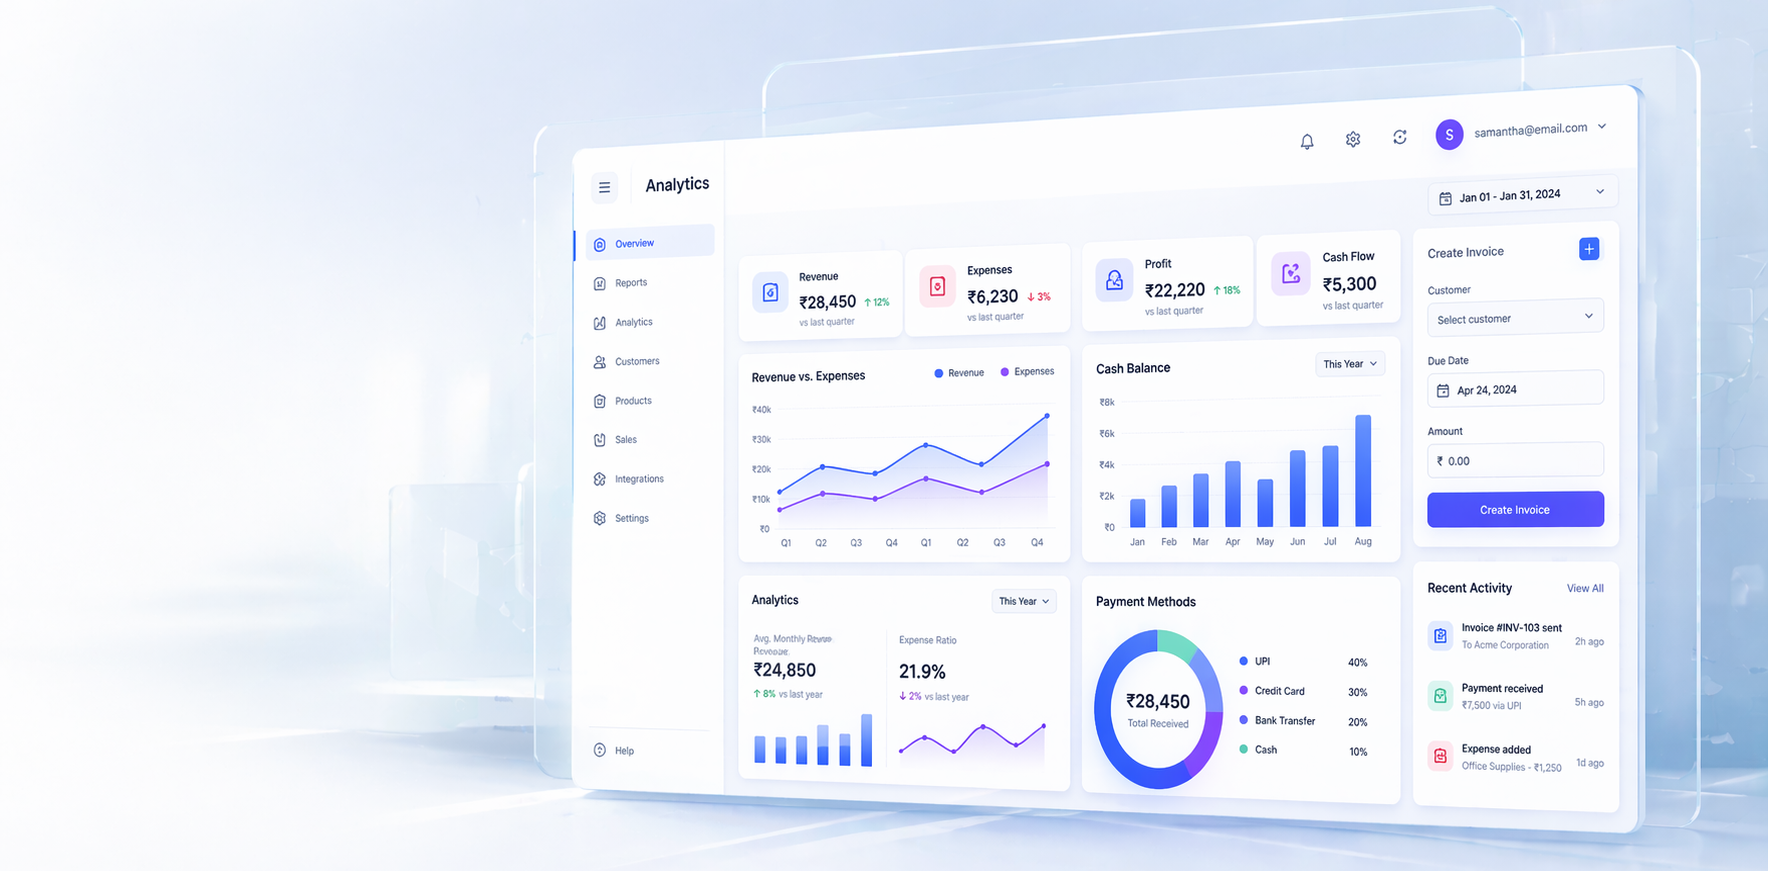
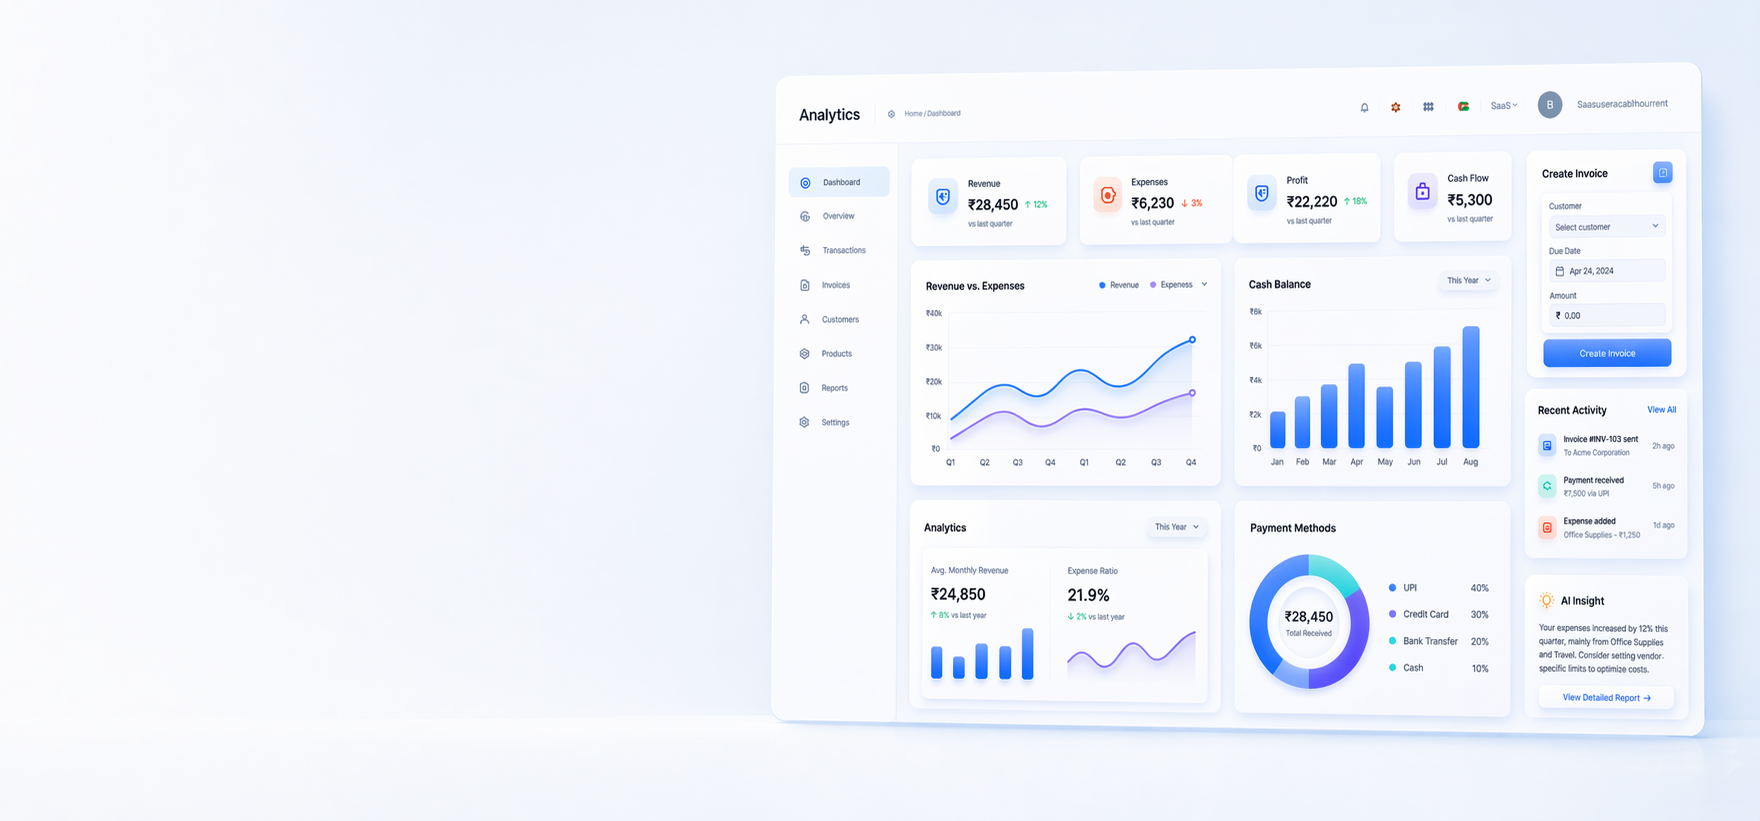
Dashboard image updated

diff --git a/src/components/CTAFAQSection.tsx b/src/components/CTAFAQSection.tsx
@@ -34,7 +34,7 @@ export default function CTAFAQSection() {
   return (
     <section className="py-20 bg-gradient-to-br from-blue-50 to-purple-50">
       <div className="max-w-7xl mx-auto px-4 sm:px-6 lg:px-8">
-        {/* CTA Section */}
+        {/* CTA Secion */}
         <div className="text-center mb-16">
           <h2 className="text-4xl sm:text-5xl font-semibold text-gray-900 mb-6">
             Ready to Transform Your Business?
@@ -42,7 +42,7 @@ export default function CTAFAQSection() {
           <p className="text-xl text-gray-600 max-w-3xl mx-auto mb-8">
             Let's discuss how our digital solutions can help you achieve your business goals and stay ahead of the competition.
           </p>
-          
+
           <div className="flex flex-col sm:flex-row gap-4 justify-center">
             <button className="bg-blue-600 text-white px-8 py-4 rounded-lg font-semibold hover:bg-blue-700 transition-colors flex items-center justify-center">
               <MessageCircle className="w-5 h-5 mr-2" />
@@ -64,11 +64,11 @@ export default function CTAFAQSection() {
             <p className="text-lg text-gray-600 mb-8">
               Have questions about our services? Find answers to common queries below.
             </p>
-            
+
             <div className="space-y-4">
               {faqs.map((faq, index) => (
-                <div 
-                  key={index} 
+                <div
+                  key={index}
                   className="bg-white rounded-xl border border-gray-200 overflow-hidden"
                 >
                   <button
@@ -99,7 +99,7 @@ export default function CTAFAQSection() {
             <p className="text-gray-600 mb-8">
               Have a specific question or project in mind? Reach out to us and we'll get back to you within 24 hours.
             </p>
-            
+
             <form className="space-y-6">
               <div>
                 <label className="block text-sm font-medium text-gray-700 mb-2">
@@ -111,7 +111,7 @@ export default function CTAFAQSection() {
                   placeholder="John Doe"
                 />
               </div>
-              
+
               <div>
                 <label className="block text-sm font-medium text-gray-700 mb-2">
                   Email Address
@@ -122,7 +122,7 @@ export default function CTAFAQSection() {
                   placeholder="john@example.com"
                 />
               </div>
-              
+
               <div>
                 <label className="block text-sm font-medium text-gray-700 mb-2">
                   Message
@@ -133,7 +133,7 @@ export default function CTAFAQSection() {
                   placeholder="Tell us about your project..."
                 />
               </div>
-              
+
               <button
                 type="submit"
                 className="w-full bg-blue-600 text-white px-6 py-3 rounded-lg font-semibold hover:bg-blue-700 transition-colors flex items-center justify-center"
@@ -142,7 +142,7 @@ export default function CTAFAQSection() {
                 Send Message
               </button>
             </form>
-            
+
             <div className="mt-8 pt-8 border-t border-gray-200">
               <div className="flex items-center space-x-4 text-gray-600">
                 <Phone className="w-5 h-5" />

diff --git a/src/pages/Home.tsx b/src/pages/Home.tsx
@@ -80,28 +80,28 @@ function CountUp({ end, duration = 2000, suffix = '', decimals = 0 }: { end: num
 
 function HeroSection() {
   return (
-    <section 
+    <section
       className="relative w-full overflow-hidden bg-[#f8faff] flex flex-col lg:block"
     >
       {/* Mobile Image: Shown first on small screens */}
-      <img 
-        src="/BGDB.png" 
-        alt="Hero Visual" 
+      <img
+        src="/BGDB.png"
+        alt="Hero Visual"
         className="w-full h-auto block lg:hidden"
       />
 
       {/* Desktop Background Image - Sets the aspect ratio and provides the backdrop */}
-      <img 
-        src="/BGDB.png" 
-        alt="Hero Background" 
+      <img
+        src="/BGDB.png"
+        alt="Hero Background"
         className="hidden lg:block w-full h-auto select-none pointer-events-none"
       />
-      
+
       {/* Content Overlay - Static on mobile (below image), Absolute on desktop (over image) */}
       <div className="relative lg:absolute lg:inset-0 z-20 flex items-center py-10 lg:py-0">
         <div className="max-w-7xl mx-auto lg:ml-[5%] lg:mr-auto px-4 sm:px-6 lg:pl-0 lg:pr-8 w-full">
           <div className="grid grid-cols-1 lg:grid-cols-12">
-            
+
             {/* Left-aligned Text content shifted more to the left edge */}
             <div className="lg:col-span-5 space-y-4 lg:space-y-5 text-slate-900">
               <h1 className="text-[28px] sm:text-[34px] lg:text-[42px] font-bold leading-[1.2] tracking-tight text-slate-900">
